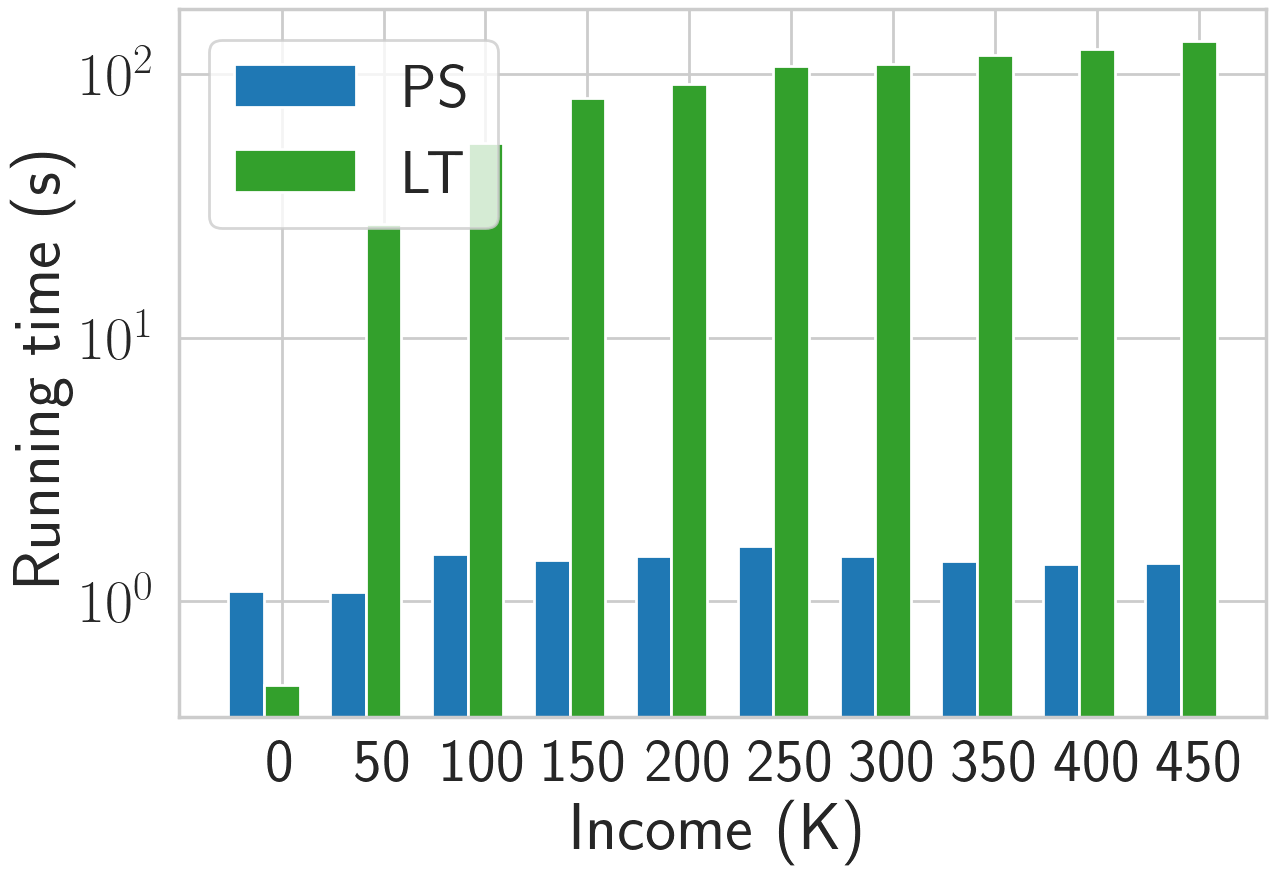
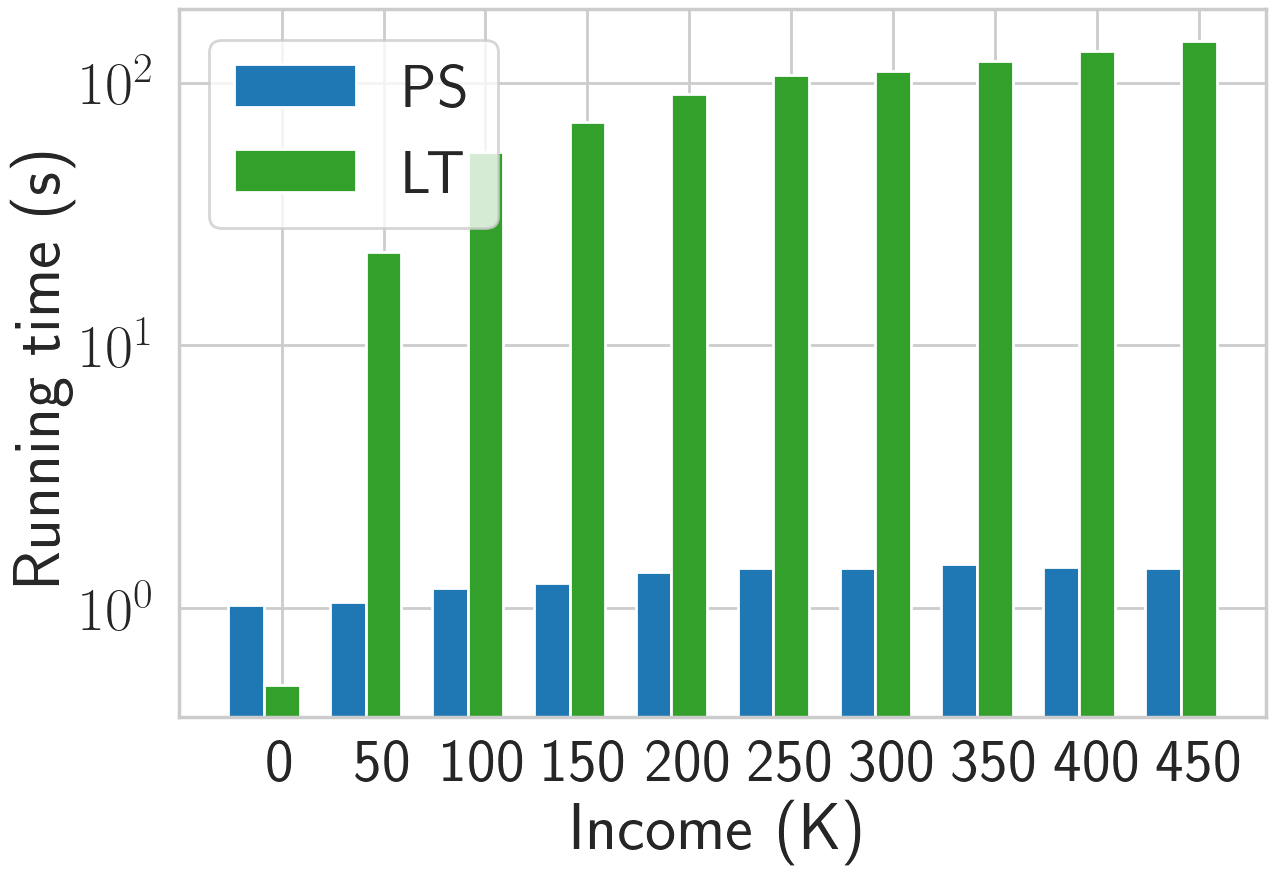
healthcare query change q1c1

diff --git a/Experiment/healthcare/query_change/Q1C1/query_change_q1c1.py b/Experiment/healthcare/query_change/Q1C1/query_change_q1c1.py
@@ -26,16 +26,17 @@ running_time2 = []
 data_file = r"../../../../InputData/Healthcare/incomeK/before_selection_incomeK.csv"
 query_file_prefix = r"./query"
 
+time_limit = 5*60
 
 def run_constraint(c):
     print("running query change constraint {}".format(c))
     constraint_file = r"./constraint" + str(c) + ".json"
 
-    time_output_file = r"./query_change_q1c1.csv"
+    time_output_file = r"./query_change_q1c1_1.csv"
     time_output = open(time_output_file, "w")
     time_output.write("income,PS,LT\n")
 
-    result_output_file = r"./result_q1c1.txt"
+    result_output_file = r"./result_q1c1_1.txt"
     result_output = open(result_output_file, "w")
     result_output.write("selection file, result\n")
 
@@ -43,13 +44,16 @@ def run_constraint(c):
         query_file = query_file_prefix + str(i) + ".json"
         print("========================== provenance search ===================================")
         minimal_refinements1, running_time1 = \
-            ps.FindMinimalRefinement(data_file, query_file, constraint_file)
+            ps.FindMinimalRefinement(data_file, query_file, constraint_file, time_limit)
         print("running time = {}".format(running_time1))
 
         print("========================== lattice traversal ===================================")
-        minimal_refinements2, minimal_added_refinements2, running_time2 = \
-            lt.FindMinimalRefinement(data_file, query_file, constraint_file)
-        print("running time = {}".format(running_time2))
+        # minimal_refinements2, minimal_added_refinements2, running_time2 = \
+        #     lt.FindMinimalRefinement(data_file, query_file, constraint_file, time_limit)
+        # print("running time = {}".format(running_time2))
+        # if running_time2 < time_limit:
+        #     print(*minimal_refinements2, sep="\n")
+        running_time2 = 0
         print(*minimal_refinements1, sep="\n")
         result_output.write("\n")
         idx = i * 50

diff --git a/Experiment/healthcare/query_change/Q1C1/fig.py b/Experiment/healthcare/query_change/Q1C1/fig.py
@@ -27,7 +27,7 @@ x_naive = list()
 execution_timeps = list()
 execution_timelt = list()
 
-input_path = r'./query_change_1.csv'
+input_path = r'./query_change_q1c1.csv'
 input_file = open(input_path, "r")
 
 Lines = input_file.readlines()
@@ -67,6 +67,6 @@ plt.yticks([0, 50, 100, 150])
 plt.legend(loc='best')
 plt.yscale("log")
 plt.tight_layout()
-plt.savefig("healthcare_query_change_1.png",
+plt.savefig("healthcare_query_change_q1c1.png",
             bbox_inches='tight')
 plt.show()
